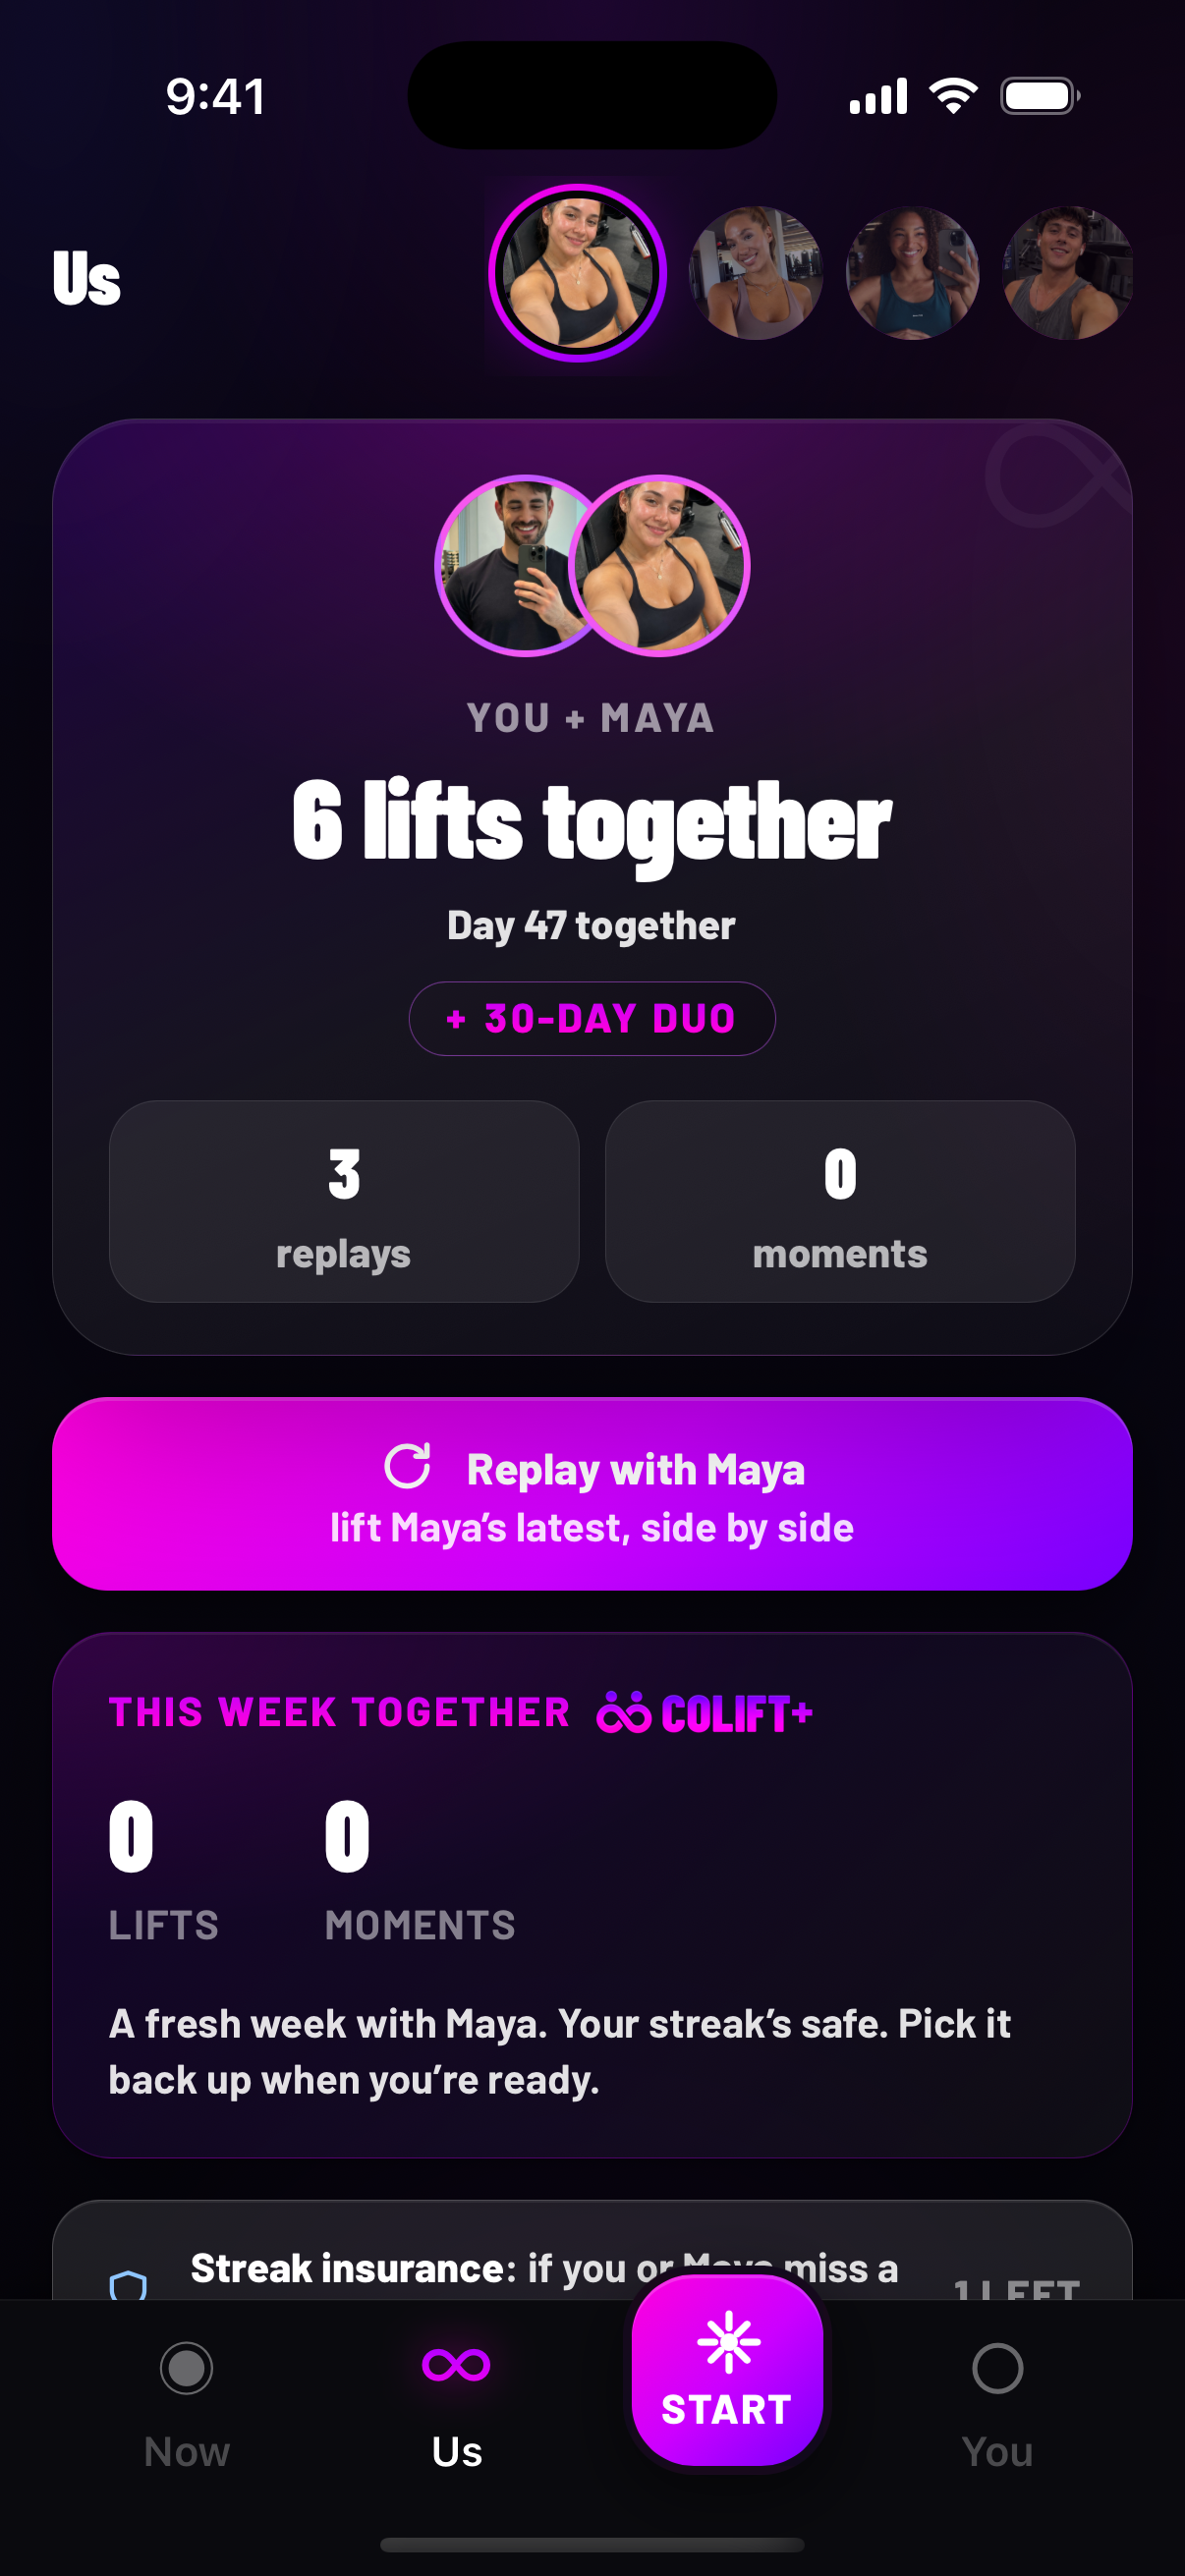
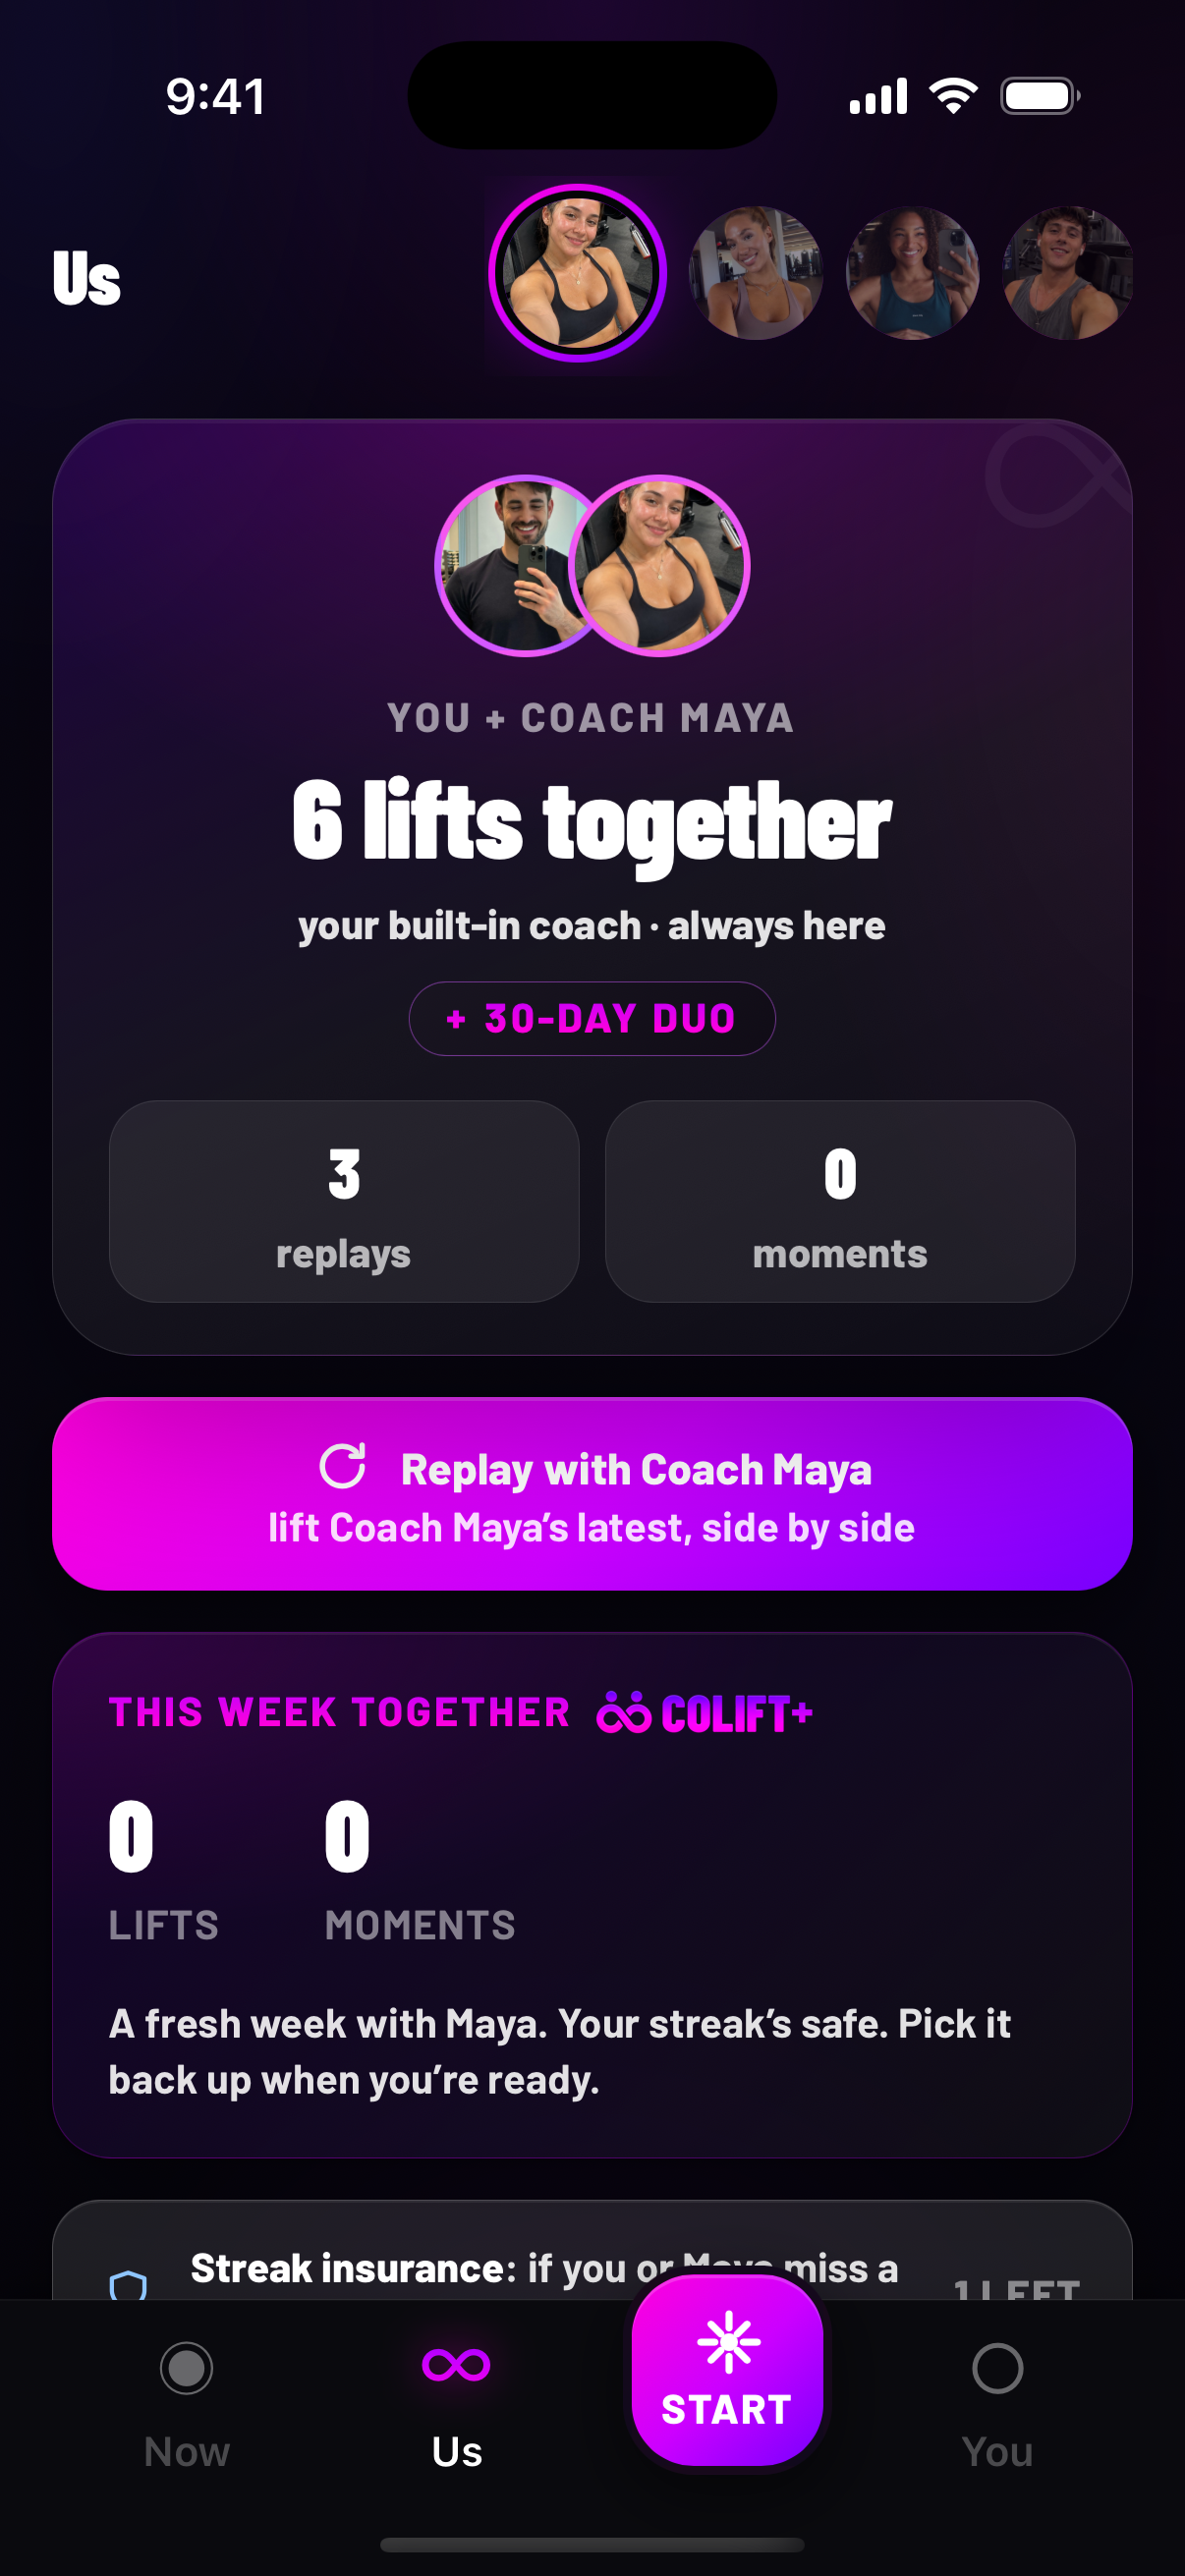
Update Us screenshot: Coach Maya labeling

diff --git a/index.html b/index.html
@@ -128,7 +128,7 @@
         <h2>It counts that <span class="grad-text">you showed up.</span></h2>
         <p>CoLift tracks the days you trained together, not who lifted more. No leaderboards, no PRs on blast, no comparing. Every day you both show up builds your streak. That's the whole point.</p>
       </div>
-      <div class="f-media reveal"><div class="app-frame"><div class="app-screen"><img src="assets/screens/us.png?v=8" alt="You and Tyler: 12 days trained together, a 7-day milestone" loading="eager"></div></div></div>
+      <div class="f-media reveal"><div class="app-frame"><div class="app-screen"><img src="assets/screens/us.png?v=9" alt="You and Tyler: 12 days trained together, a 7-day milestone" loading="eager"></div></div></div>
     </div>
   </div>
 </section>